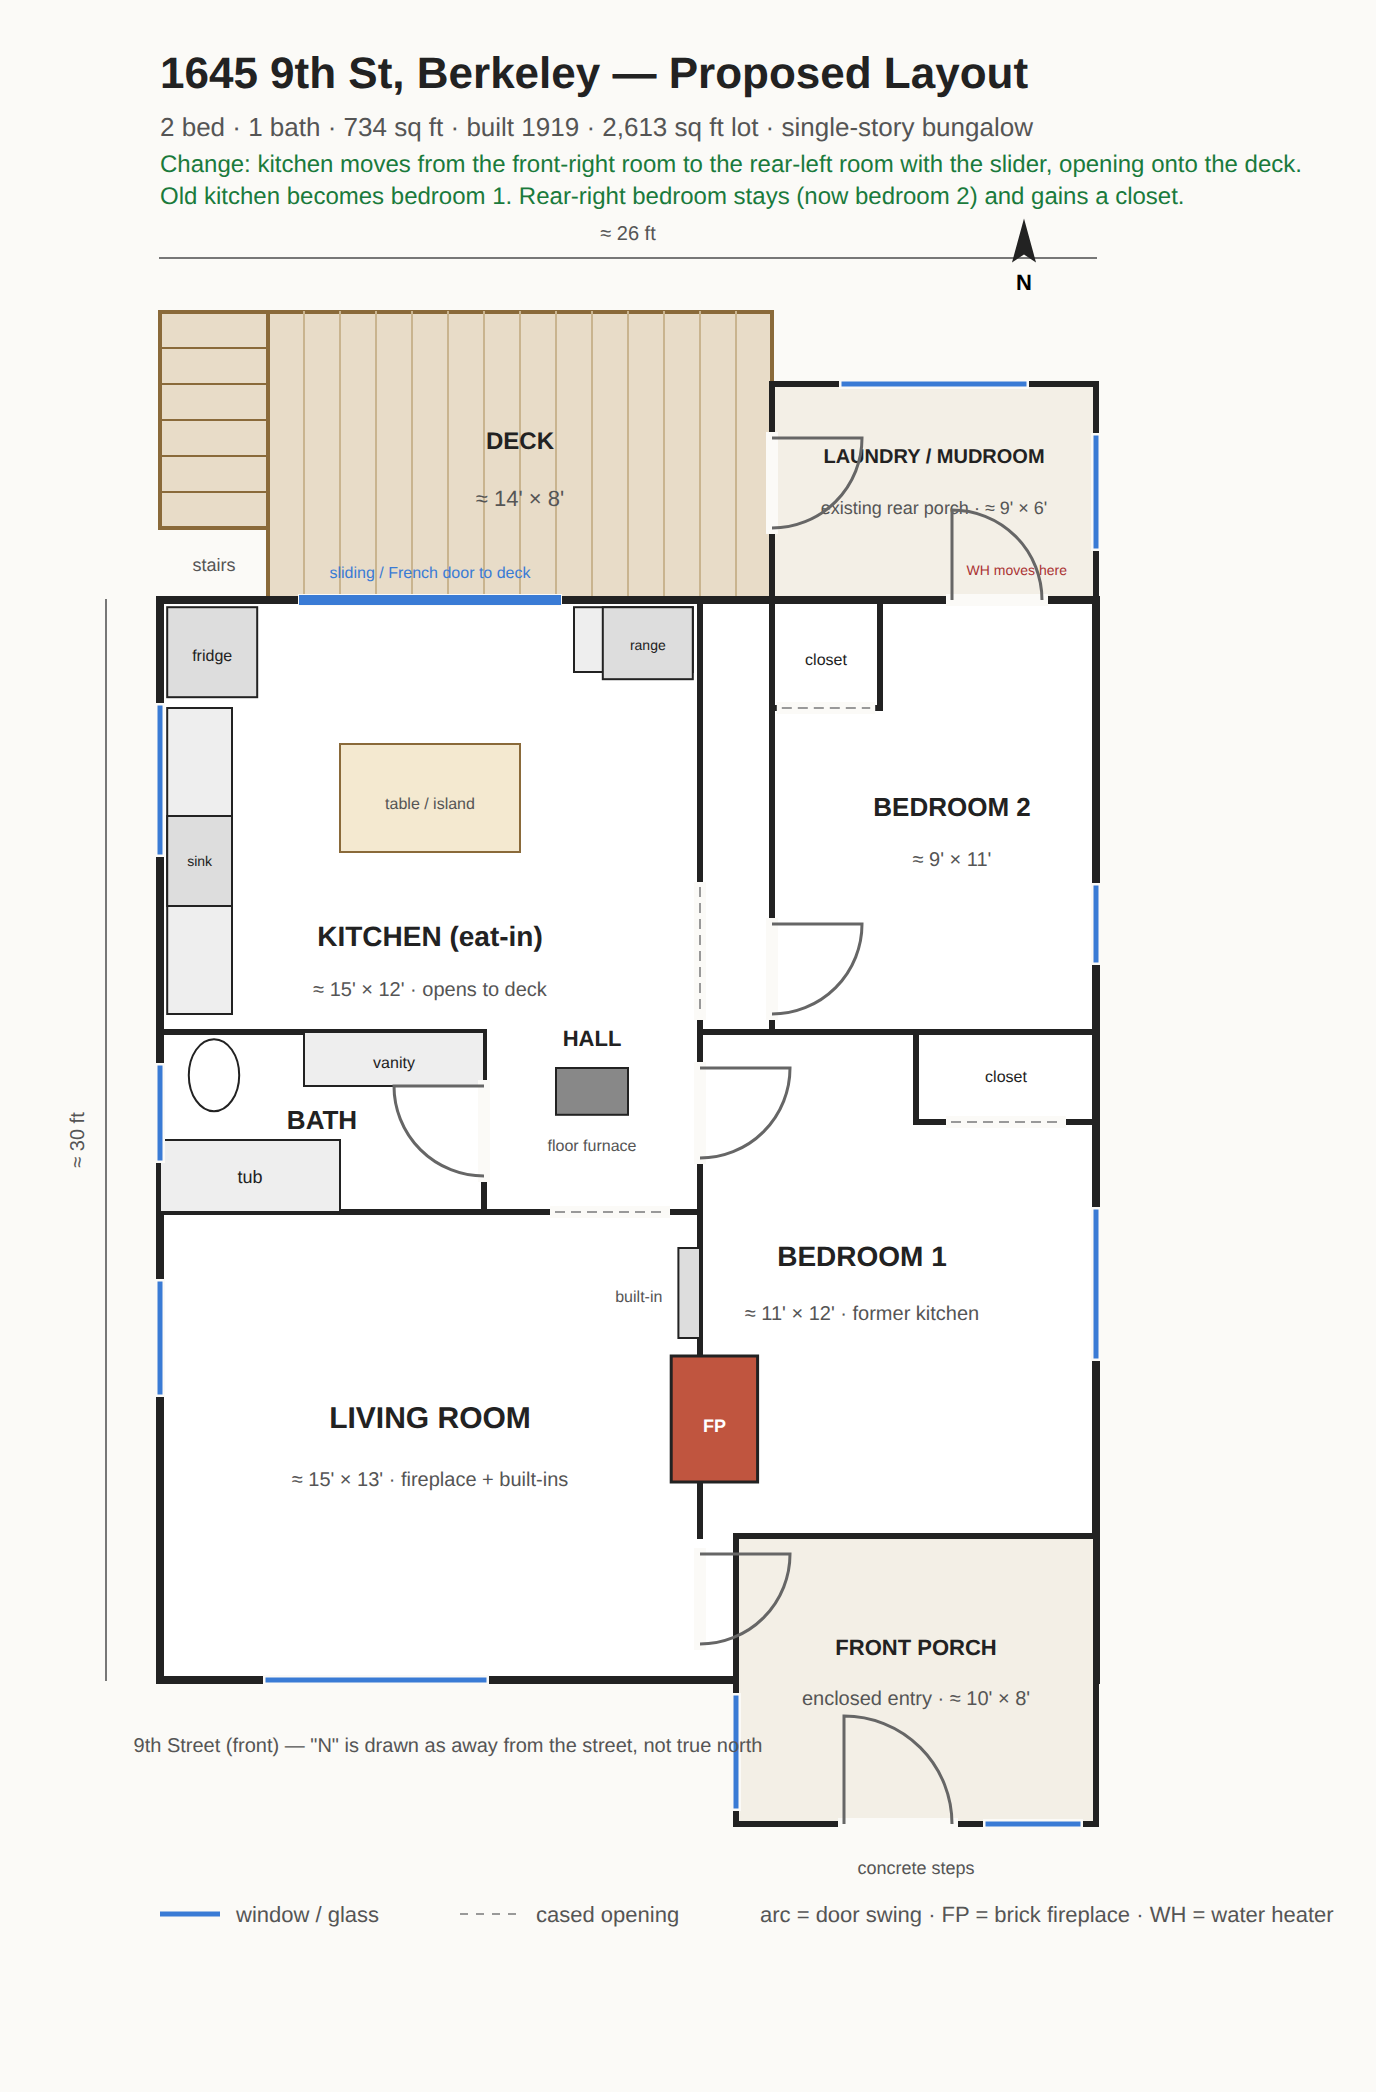
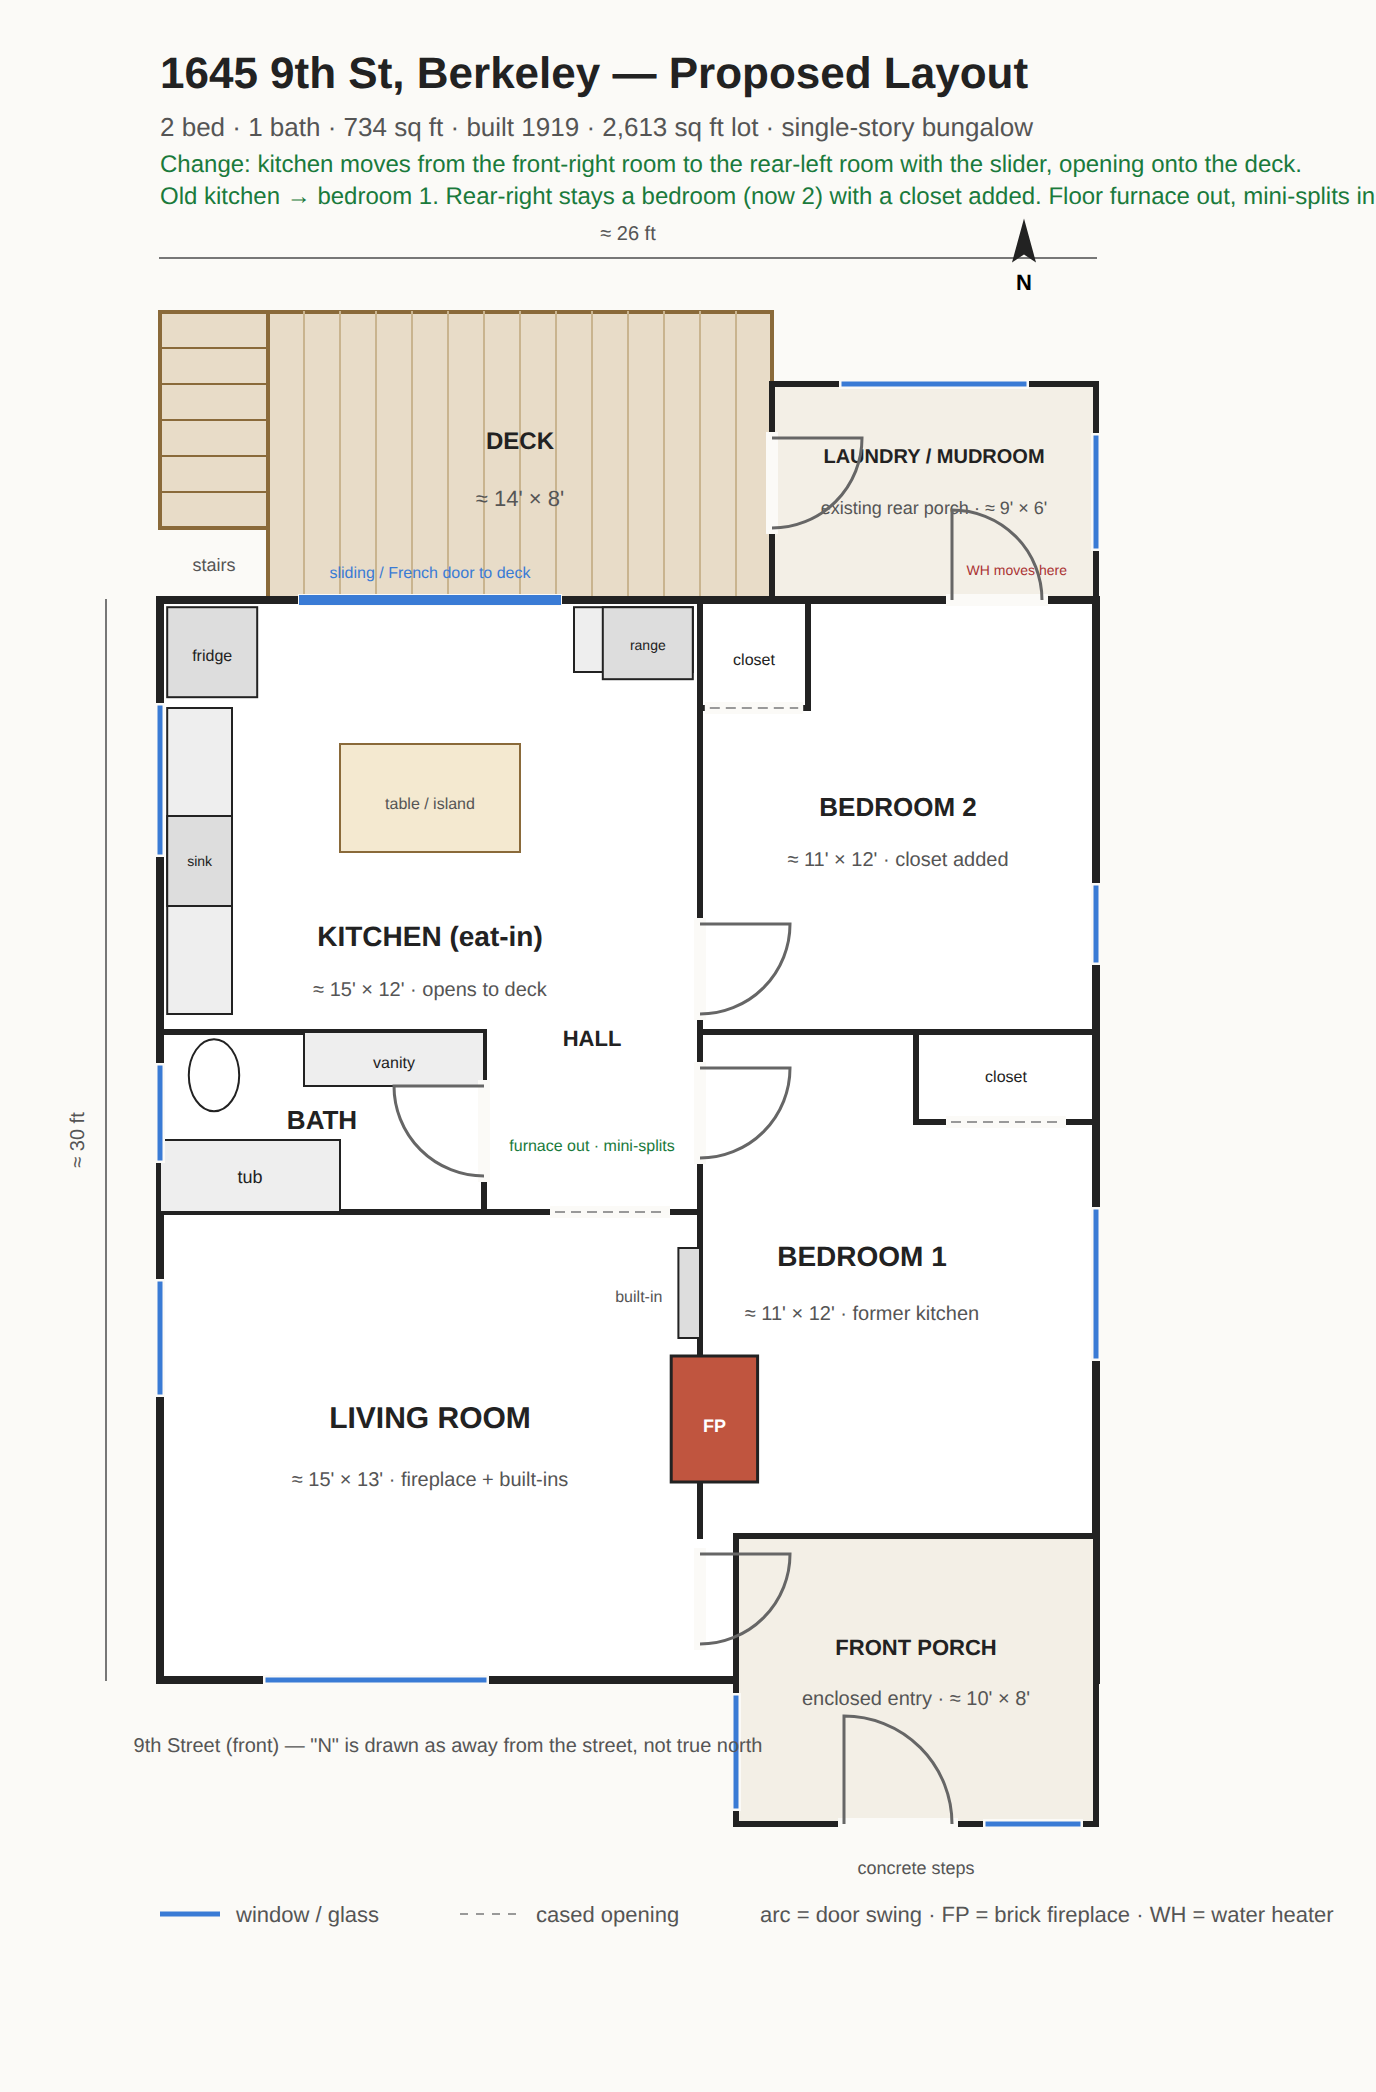
Proposed plan: drop the floor furnace; single wall between the rear rooms
- Proposed sheet no longer draws the floor furnace (mini-splits replace it)
  and says so in the hall.
- The 2 ft double wall between the rear-left and rear-right rooms is gone
  on both sheets; it was a guess with no evidence. One wall at 15 ft with a
  single door. Rear-right room is now ≈11×12 on both sheets, bedroom 2's
  closet sits against the shared wall.
- CLAUDE.md, index.html updated.

Claude-Session: https://claude.ai/code/session_01QP4ZkLkW7cUrZ9x3HXMY7H

diff --git a/index.html b/index.html
@@ -39,7 +39,7 @@ table{border-collapse:collapse;font-size:14px}td,th{padding:4px 12px 4px 0;text-
 <strong>Proposed changes</strong>
 <ul>
 <li><strong>Kitchen moves to the rear-left room with the slider</strong> so it opens directly onto the deck. Becomes an eat-in kitchen, roughly 15 × 12, sharing a wet wall with the bath.</li>
-<li><strong>Old kitchen (front-right, roughly 11 × 12) becomes bedroom 1.</strong> The rear-right bedroom stays a bedroom, becomes bedroom 2, roughly 9 × 11, with a closet added.</li>
+<li><strong>Old kitchen (front-right, roughly 11 × 12) becomes bedroom 1.</strong> The rear-right bedroom stays a bedroom, becomes bedroom 2, roughly 11 × 12, with a closet added. Floor furnace comes out; mini-splits instead.</li>
 <li><strong>Rear porch becomes laundry / mudroom</strong>, still opening onto the deck. Water heater relocates there out of the kitchen. Open question: whether it's entered from bedroom 2, the deck only, or both.</li>
 <li>Living room, bath, hall, and front porch unchanged in this pass.</li>
 </ul>

diff --git a/floor-plan/generate.py b/floor-plan/generate.py
@@ -41,7 +41,7 @@ def build(variant):
     out.append(f'<text x="{OX}" y="68" font-size="13" fill="#555">2 bed · 1 bath · 734 sq ft · built 1919 · 2,613 sq ft lot · single-story bungalow</text>')
     if proposed:
         out.append(f'<text x="{OX}" y="86" font-size="12" fill="#1a7a3c">Change: kitchen moves from the front-right room to the rear-left room with the slider, opening onto the deck.</text>')
-        out.append(f'<text x="{OX}" y="102" font-size="12" fill="#1a7a3c">Old kitchen becomes bedroom 1. Rear-right bedroom stays (now bedroom 2) and gains a closet.</text>')
+        out.append(f'<text x="{OX}" y="102" font-size="12" fill="#1a7a3c">Old kitchen → bedroom 1. Rear-right stays a bedroom (now 2) with a closet added. Floor furnace out, mini-splits in.</text>')
     else:
         out.append(f'<text x="{OX}" y="86" font-size="12" fill="#a33">From the listing photos; room positions corrected after the walkthrough. Sizes are estimates (±2 ft), not measured.</text>')
 
@@ -66,7 +66,7 @@ def build(variant):
     door(19,34,3,'n'); window(16,30.5,16,33.5); window(23,34,25.5,34)
     label(21,35.4,"concrete steps",9,False,"#555")
     # shared interior walls
-    line(15,0,15,12); line(17,0,17,12); line(15,12,26,12)
+    line(15,0,15,12); line(15,12,26,12)   # one wall between the rear rooms (the earlier draft had a 2 ft double wall here; no evidence for it)
     line(0,12,9,12); line(0,17,15,17); line(9,12,9,17)
     line(15,12,15,26)
     line(21,12,21,14.5); line(21,14.5,26,14.5)
@@ -77,16 +77,19 @@ def build(variant):
     rect(0,15,5,17,fill="#eee",stroke="#222",sw=1); label(2.5,16.2,"tub",9,False)
     rect(4,12,9,13.5,fill="#eee",stroke="#222",sw=1); label(6.5,13,"vanity",8,False)
     e=P(1.5,13.2); out.append(f'<ellipse cx="{e[0]}" cy="{e[1]}" rx="{0.7*S}" ry="{1*S}" fill="#fff" stroke="#222" stroke-width="1"/>')
-    rect(11,13,13,14.3,fill="#888",stroke="#222",sw=1); label(12,15.3,"floor furnace",8,False,"#555")
+    if proposed:
+        label(12,15.3,"furnace out · mini-splits",8,False,"#1a7a3c")
+    else:
+        rect(11,13,13,14.3,fill="#888",stroke="#222",sw=1); label(12,15.3,"floor furnace (red-tagged)",8,False,"#555")
     label(4.5,14.7,"BATH",13); label(12,12.4,"HALL",11)
 
     if not proposed:
         # bedroom 2 rear-left with slider; bedroom 1 rear-right; kitchen front-right (per Keith, Sept 9)
         line(12,0,12,3); line(12,3,15,3); opening(12.3,3,14.7,3); label(13.5,1.8,"closet",8,False)
-        door(15,8.5,2.5,'w'); opening(17,9,17,11.8); door(20,0,2.5,'n')
+        door(15,8.5,2.5,'e'); door(20,0,2.5,'n')
         line(5,0,10,0,stroke="#fbfaf7",sw=6); line(5,0,10,0,stroke="#3a7bd5",sw=5); label(7.5,-0.6,"sliding glass door",8,False,"#3a7bd5")
         label(6,5.5,"BEDROOM 2",14); label(6,7,"≈ 15' × 12'",11,False,"#555")
-        label(21.5,5.5,"BEDROOM 1",14); label(21.5,7,"≈ 9' × 12' · door to rear porch",10,False,"#555")
+        label(20.5,5.5,"BEDROOM 1",14); label(20.5,7,"≈ 11' × 12' · door to rear porch",10,False,"#555")
         # kitchen fixtures, front-right room
         rect(24,15,26,24,fill="#eee",stroke="#222",sw=1); label(25,22.2,"tile",8,False); label(25,23.1,"counter",8,False)
         rect(24,17.5,26,20.5,fill="#ddd",stroke="#222",sw=1); label(25,19.2,"sink",8,False)
@@ -96,7 +99,6 @@ def build(variant):
     else:
         # kitchen rear-left, eat-in, opens to deck; bedroom 2 rear-right
         line(4,0,11,0,stroke="#fbfaf7",sw=6); line(4,0,11,0,stroke="#3a7bd5",sw=5); label(7.5,-0.6,"sliding / French door to deck",8,False,"#3a7bd5")
-        opening(15,8,15,11.5)                                   # kitchen open to hall
         rect(0.2,0.2,2.7,2.7,fill="#ddd",stroke="#222",sw=1); label(1.45,1.7,"fridge",8,False)
         rect(0.2,3,2,11.5,fill="#eee",stroke="#222",sw=1); label(1.1,7,"counter",7,False)
         rect(0.2,6,2,8.5,fill="#ddd",stroke="#222",sw=1); label(1.1,7.4,"sink",7,False)
@@ -105,10 +107,10 @@ def build(variant):
         rect(5,4,10,7,fill="#f4e9d0",stroke="#8a6a3a",sw=1); label(7.5,5.8,"table / island",8,False,"#555")
         label(7.5,9.6,"KITCHEN (eat-in)",14); label(7.5,11,"≈ 15' × 12' · opens to deck",10,False,"#555")
         # bedroom 2 (was bedroom 1; gains a closet)
-        door(17,9,2.5,'e')                                      # hall -> bedroom 2
-        line(17,0,17,3, stroke="#222"); line(17,3,20,3); line(20,0,20,3); opening(17.3,3,19.7,3); label(18.5,1.8,"closet",8,False)
+        door(15,9,2.5,'e')                                      # kitchen -> bedroom 2 (single opening)
+        line(15,3,18,3); line(18,0,18,3); opening(15.3,3,17.7,3); label(16.5,1.8,"closet",8,False)
         door(22,0,2.5,'n')                                      # bedroom 2 -> laundry/mudroom
-        label(22,6,"BEDROOM 2",13); label(22,7.4,"≈ 9' × 11'",10,False,"#555")
+        label(20.5,6,"BEDROOM 2",13); label(20.5,7.4,"≈ 11' × 12' · closet added",10,False,"#555")
         label(23.8,-0.7,"WH moves here",7,False,"#a33")
     # shared: bedroom 1, living room, doors
     door(9,13.5,2.5,'w'); door(15,13,2.5,'e'); opening(22,14.5,25,14.5); opening(11,17,14,17); door(15,26.5,2.5,'e')

diff --git a/CLAUDE.md b/CLAUDE.md
@@ -41,19 +41,19 @@ Rough photo index:
 - `floor-plan/generate.py` — generates both SVGs; edit this, run it, then re-export PNGs with headless Chrome (see below)
 - `index.html` — shareable page with an existing/proposed toggle and both photo galleries, published at https://keithmancuso.github.io/1645-9th-st/
 
-The existing plan was reconstructed from the listing photos only, not measured. Treat room sizes as ±2 ft. Layout as drawn: living room front-left with fireplace on the wall shared with the front porch and the kitchen; enclosed front porch front-right; **kitchen behind the porch (front-right, ≈11×12)**; small central hall with a floor furnace; bathroom on the left; **bedroom 1 rear-right (≈9×12) with a door to the rear porch**; bedroom 2 rear-left with a slider to the deck; unfinished enclosed rear porch off bedroom 1. Bathroom position and door placements are the least certain parts.
+The existing plan was reconstructed from the listing photos only, not measured. Treat room sizes as ±2 ft. Layout as drawn: living room front-left with fireplace on the wall shared with the front porch and the kitchen; enclosed front porch front-right; **kitchen behind the porch (front-right, ≈11×12)**; small central hall with a floor furnace; bathroom on the left; **bedroom 1 rear-right (≈11×12) with a door to the rear porch, reached through bedroom 2**; bedroom 2 rear-left with a slider to the deck; unfinished enclosed rear porch off bedroom 1. Bathroom position and door placements are the least certain parts.
 
-Correction, Sept 9: the first draft had the kitchen and bedroom 1 swapped (kitchen rear-right, bedroom 1 front-right). Keith confirmed after the walkthrough that the front-right room is the kitchen today. Room sizes still need checking against a real plan; none was found in the listing or the disclosure package.
+Correction, Sept 9: the first draft had the kitchen and bedroom 1 swapped (kitchen rear-right, bedroom 1 front-right). Keith confirmed after the walkthrough that the front-right room is the kitchen today. Room sizes still need checking against a real plan; none was found in the listing or the disclosure package. The first draft also drew a 2 ft double wall between the two rear rooms; there was no evidence for it, so it is now one wall with a single door.
 
 ### Proposed changes (as of Sept 9, 2026)
 
 1. **Kitchen moves to the rear-left room with the slider** so it opens directly onto the deck (eat-in, ≈15×12). Reason: don't want to walk through a bedroom to reach the yard. The new kitchen shares its south wall with the bathroom, so the wet wall is shared.
 2. **Old kitchen (front-right, ≈11×12) becomes bedroom 1.** Its plumbing gets abandoned.
-3. **Rear-right bedroom stays a bedroom** and becomes bedroom 2 (≈9×11) with a closet added.
+3. **Rear-right bedroom stays a bedroom** and becomes bedroom 2 (≈11×12) with a closet added. As drawn its only door is from the kitchen; a door from the hall would need the hall's east wall opened.
 4. **Rear porch becomes laundry / mudroom**, still opening onto the deck; water heater relocates there. Open question: entered from bedroom 2, the deck only, or both.
 5. Living room, bath, hall, front porch unchanged in this pass.
 
-Open questions: verify room sizes and door placements on the next visit (no measured plan exists); confirm whether the termite report's "rear half bathroom" means there is a second sink/half bath in the rear porch area, which now sits off bedroom 1. The floor furnace is red-tagged by PG&E (Aug 2026) and comes out; heating will be mini-splits (see `BUDGET.md`).
+Open questions: verify room sizes and door placements on the next visit (no measured plan exists); confirm whether the termite report's "rear half bathroom" means there is a second sink/half bath in the rear porch area, which now sits off bedroom 1. The floor furnace is red-tagged by PG&E (Aug 2026) and comes out; heating will be mini-splits (see `BUDGET.md`). The proposed sheet omits the furnace for that reason.
 
 ## Renovation reference — 2435 Valley St, Berkeley, CA 94702
 
